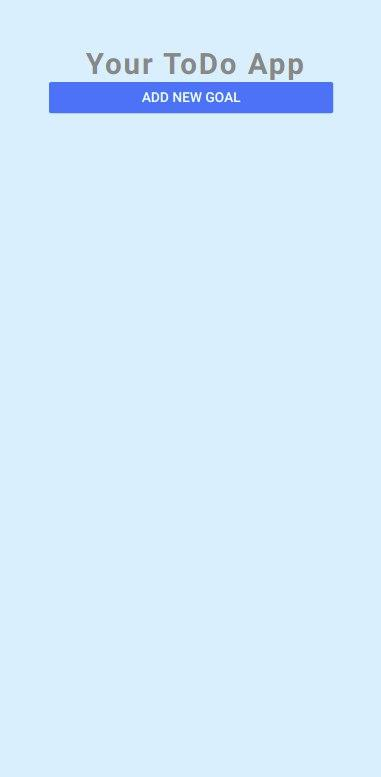
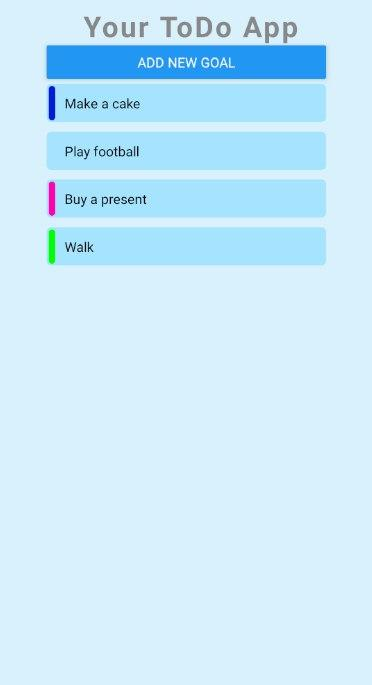
more

Changed region(s): [[0.1183, 0.0, 0.8871, 0.3985]]

diff --git a/components/input.js b/components/input.js
@@ -1,18 +1,187 @@
 import React, { useState } from 'react'
-import { View, TextInput, StyleSheet, Button, Modal } from 'react-native'
+import {
+  View,
+  Text,
+  TextInput,
+  StyleSheet,
+  Button,
+  Modal,
+  TouchableOpacity,
+} from 'react-native'
 
 export default function Input(props) {
   const [enteredGoal, setEnteredGoal] = useState('')
+  const [goalColor, setGoalColor] = useState('#00000000')
+  const [colorModal, setColorModal] = useState(false)
 
   return (
-    <Modal visible={props.visible} animationType="">
+    <Modal visible={props.visible} animationType="slide">
+      <Modal visible={colorModal} transparent={true} animationType="slide">
+        <View
+          style={{
+            marginTop: '50%',
+            backgroundColor: '#fff',
+            borderRadius: 20,
+            shadowColor: '#444', /////////////
+            height: '30%',
+            width: '60%',
+            alignSelf: 'center',
+            justifyContent: 'center',
+            alignItems: 'center',
+          }}
+        >
+          <View style={{ flexDirection: 'column' }}>
+            <View style={{ flexDirection: 'row' }}>
+              <TouchableOpacity
+                onPress={() => {
+                  setGoalColor('#ff0000')
+                  setColorModal(false)
+                }}
+              >
+                <View
+                  style={[
+                    styles.colorPicker,
+                    {
+                      backgroundColor: '#FF0000',
+                    },
+                  ]}
+                ></View>
+              </TouchableOpacity>
+              <TouchableOpacity
+                onPress={() => {
+                  setGoalColor('#ffea00')
+                  setColorModal(false)
+                }}
+              >
+                <View
+                  style={[
+                    styles.colorPicker,
+                    {
+                      backgroundColor: '#ffea00',
+                    },
+                  ]}
+                ></View>
+              </TouchableOpacity>
+              <TouchableOpacity
+                onPress={() => {
+                  setGoalColor('#04ff00')
+                  setColorModal(false)
+                }}
+              >
+                <View
+                  style={[
+                    styles.colorPicker,
+                    {
+                      backgroundColor: '#04ff00',
+                    },
+                  ]}
+                ></View>
+              </TouchableOpacity>
+            </View>
+            <View style={{ flexDirection: 'row' }}>
+              <TouchableOpacity
+                onPress={() => {
+                  setGoalColor('#00d5ff')
+                  setColorModal(false)
+                }}
+              >
+                <View
+                  style={[
+                    styles.colorPicker,
+                    {
+                      backgroundColor: '#00d5ff',
+                    },
+                  ]}
+                ></View>
+              </TouchableOpacity>
+              <TouchableOpacity
+                onPress={() => {
+                  setGoalColor('#041dd6')
+                  setColorModal(false)
+                }}
+              >
+                <View
+                  style={[
+                    styles.colorPicker,
+                    {
+                      backgroundColor: '#041dd6',
+                    },
+                  ]}
+                ></View>
+              </TouchableOpacity>
+              <TouchableOpacity
+                onPress={() => {
+                  setGoalColor('#ff00b3')
+                  setColorModal(false)
+                }}
+              >
+                <View
+                  style={[
+                    styles.colorPicker,
+                    {
+                      backgroundColor: '#ff00b3',
+                    },
+                  ]}
+                ></View>
+              </TouchableOpacity>
+            </View>
+          </View>
+          <TouchableOpacity
+            onPress={() => {
+              setGoalColor('#00000000')
+              setColorModal(false)
+            }}
+          >
+            <View
+              style={{
+                backgroundColor: '#999',
+                justifyContent: 'center',
+                alignItems: 'center',
+                width: 140,
+                height: 40,
+                margin: 5,
+                borderRadius: 10,
+              }}
+            >
+              <Text style={{ color: '#fff', fontSize: 24 }}>No color</Text>
+            </View>
+          </TouchableOpacity>
+        </View>
+      </Modal>
+
       <View style={styles.inputView}>
-        <TextInput
-          placeholder="Add your goal"
-          style={styles.input}
-          onChangeText={(text) => setEnteredGoal(text)}
-          value={enteredGoal}
-        />
+        <View
+          style={{
+            flexDirection: 'row',
+            width: '100%',
+            alignItems: 'center',
+            justifyContent: 'center',
+          }}
+        >
+          <View
+            style={{
+              width: 7,
+              height: 36,
+              backgroundColor: goalColor,
+              borderRadius: 100,
+            }}
+          ></View>
+          <TextInput
+            placeholder="Add your goal"
+            style={styles.input}
+            onChangeText={(text) => setEnteredGoal(text)}
+            value={enteredGoal}
+          />
+        </View>
+
+        <View style={{ marginBottom: 10, width: '80%' }}>
+          <Button
+            title="color"
+            color="#0dd155"
+            onPress={() => setColorModal(true)}
+          />
+        </View>
+
         <View style={styles.buttons}>
           <View style={{ width: '40%' }}>
             <Button
@@ -25,7 +194,7 @@ export default function Input(props) {
             <Button
               title="Add"
               onPress={() => {
-                props.onAddGoal(enteredGoal)
+                props.onAddGoal(enteredGoal, goalColor)
                 setEnteredGoal('')
               }}
             />
@@ -45,15 +214,22 @@ const styles = StyleSheet.create({
     backgroundColor: '#d9f1fc',
   },
   input: {
-    borderBottomColor: '#000',
+    borderBottomColor: '#666',
     borderBottomWidth: 1,
     padding: 10,
     width: '80%',
     margin: 10,
+    marginLeft: 0,
   },
   buttons: {
-    width: '60%',
+    width: '80%',
     flexDirection: 'row',
     justifyContent: 'space-between',
+  },
+  colorPicker: {
+    width: 40,
+    height: 40,
+    margin: 5,
+    borderRadius: 10,
   },
 })

diff --git a/App.js b/App.js
@@ -1,14 +1,7 @@
 import { StatusBar } from 'expo-status-bar'
 import React, { useState } from 'react'
-import {
-  Button,
-  StyleSheet,
-  Text,
-  TextInput,
-  View,
-  ScrollView,
-  FlatList,
-} from 'react-native'
+import { Button, StyleSheet, Text, View, FlatList } from 'react-native'
+
 import Input from './components/input'
 import Item from './components/item'
 
@@ -16,11 +9,15 @@ export default function App() {
   const [goals, setGoals] = useState([])
   const [isAddMode, setIsAddMode] = useState(false)
 
-  function Handler(goalTitle) {
+  function Handler(goalTitle, goalColor) {
+    if (goalTitle.trim().length === 0) {
+      return // you can't add empty goal or a goal only with spaces
+    }
     setGoals((current) => [
       ...current,
-      { id: Math.random().toString(), value: goalTitle },
+      { id: Math.random().toString(), value: goalTitle, color: goalColor },
     ])
+
     setIsAddMode(false)
   }
   function removeGoal(goalId) {
@@ -30,13 +27,18 @@ export default function App() {
   }
 
   function cancelGoalAddition() {
-    setIsAddMode(false)
+    setIsAddMode(false) // goal input window
   }
 
   return (
     <View style={styles.container}>
       <Text style={styles.header}> Your ToDo App</Text>
-      <Button title="Add new Goal" onPress={() => setIsAddMode(true)} />
+      <Button
+        title="Add new Goal"
+        onPress={() => {
+          setIsAddMode(true)
+        }}
+      />
       <Input
         visible={isAddMode}
         onAddGoal={Handler}
@@ -49,6 +51,7 @@ export default function App() {
             id={itemData.item.id}
             onDelete={removeGoal}
             title={itemData.item.value}
+            color={itemData.item.color}
           />
         )}
       />

diff --git a/components/item.js b/components/item.js
@@ -1,14 +1,33 @@
 import React from 'react'
-import { View, Text, StyleSheet, TouchableOpacity } from 'react-native'
+import { View, Text, StyleSheet, TouchableOpacity, Alert } from 'react-native'
 
 export default function Item(props) {
+  const deleteAlert = () =>
+    Alert.alert('Delete this goal?', props.title, [
+      {
+        text: 'Cancel',
+        onPress: () => console.log('Cancel Pressed'),
+        style: 'cancel',
+      },
+      { text: 'Delete', onPress: () => props.onDelete(props.id) },
+    ])
+
   return (
     <TouchableOpacity
       onLongPress={() => {
-        props.onDelete(props.id)
+        deleteAlert()
       }}
     >
       <View style={styles.list}>
+        <View
+          style={{
+            width: 7,
+            height: 36,
+            backgroundColor: props.color,
+            borderRadius: 100,
+            marginRight: 10,
+          }}
+        ></View>
         <Text style={styles.listText}>{props.title}</Text>
       </View>
     </TouchableOpacity>
@@ -17,10 +36,13 @@ export default function Item(props) {
 
 const styles = StyleSheet.create({
   list: {
-    padding: 10,
+    padding: 2,
+    height: 40,
     backgroundColor: '#a6e3ff',
     borderRadius: 5,
     marginVertical: 5,
+    flexDirection: 'row',
+    alignItems: 'center',
   },
-  listText: {},
+  listText: { alignSelf: 'center' },
 })

diff --git a/README.md b/README.md
@@ -2,8 +2,9 @@
 
 ---
 
-You can add and delete goals
+You can add new goals, add color to your goal, and delete a goal using longpress
 
 ![](./img/1.jpg)
 ![](./img/2.jpg)
 ![](./img/3.jpg)
+![](./img/4.jpg)
